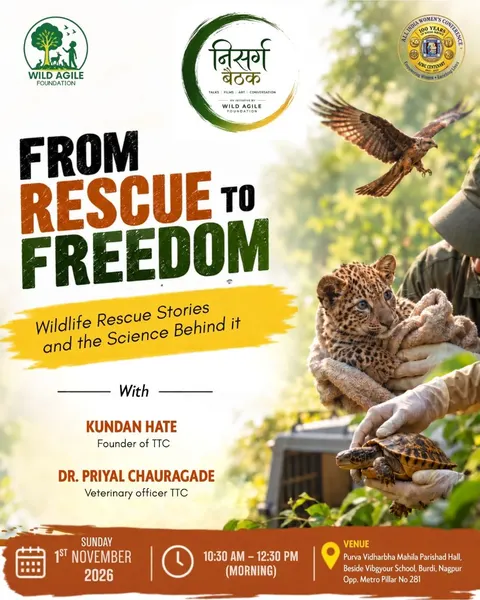
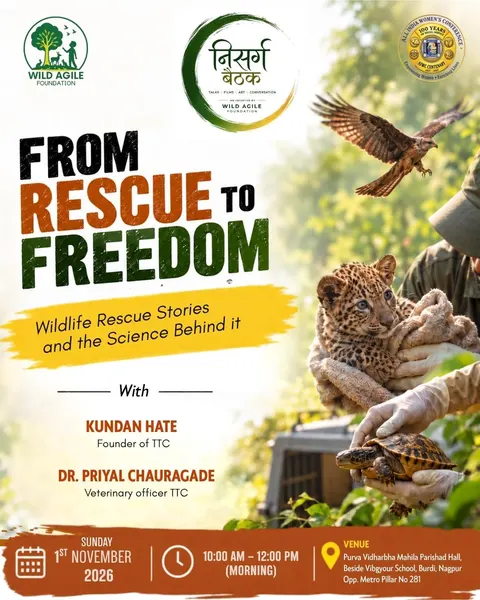
updated qr code and NB session 2 details

diff --git a/src/components/site/NisargBaithakFloatingPromo.tsx b/src/components/site/NisargBaithakFloatingPromo.tsx
@@ -1,50 +1,181 @@
-import { useMemo, useState } from "react";
-import { Minus } from "lucide-react";
+import { useEffect, useMemo, useState } from "react";
+import {
+  ArrowRight,
+  Calendar,
+  Clock,
+  ExternalLink,
+  MapPin,
+  Sparkles,
+  Ticket,
+} from "lucide-react";
+import {
+  Dialog,
+  DialogContent,
+  DialogDescription,
+  DialogTitle,
+} from "@/components/ui/dialog";
 import { NisargBaithakEventDialog } from "@/components/site/NisargBaithakEventDialog";
-import { NisargBaithakPosterTile } from "@/components/site/NisargBaithakPosterTile";
-import { isNisargBaithakCampaignActive, NISARG_BAITHAK_IMAGES } from "@/lib/nisarg-baithak";
+import {
+  isNisargBaithakCampaignActive,
+  NISARG_BAITHAK_BOOKING_URL,
+  NISARG_BAITHAK_EVENT,
+  NISARG_BAITHAK_IMAGES,
+} from "@/lib/nisarg-baithak";
+
+/** Remembers, for this browser tab, that the visitor already closed the big banner. */
+const BANNER_DISMISSED_KEY = "nisarg-baithak-banner-dismissed";
+const BANNER_DELAY_MS = 600;
+
+function readBannerDismissed() {
+  try {
+    return window.sessionStorage.getItem(BANNER_DISMISSED_KEY) === "1";
+  } catch {
+    return false;
+  }
+}
+
+function rememberBannerDismissed() {
+  try {
+    window.sessionStorage.setItem(BANNER_DISMISSED_KEY, "1");
+  } catch {
+    // Storage can be blocked (private mode); the banner just shows again next load.
+  }
+}
 
 export function NisargBaithakFloatingPromo() {
   const campaignActive = useMemo(() => isNisargBaithakCampaignActive(), []);
-  const [open, setOpen] = useState(false);
-  const [minimized, setMinimized] = useState(false);
-  const thumbnail = NISARG_BAITHAK_IMAGES[0];
+  const [mounted, setMounted] = useState(false);
+  const [bannerOpen, setBannerOpen] = useState(false);
+  const [detailsOpen, setDetailsOpen] = useState(false);
+  const event = NISARG_BAITHAK_EVENT;
+  const poster = NISARG_BAITHAK_IMAGES[0];
 
-  if (!campaignActive) return null;
+  // Decide on the client only, so the server render and hydration always agree.
+  useEffect(() => {
+    setMounted(true);
+    if (!campaignActive || readBannerDismissed()) return;
+    const id = window.setTimeout(() => setBannerOpen(true), BANNER_DELAY_MS);
+    return () => window.clearTimeout(id);
+  }, [campaignActive]);
+
+  if (!campaignActive || !mounted) return null;
+
+  const handleBannerChange = (open: boolean) => {
+    setBannerOpen(open);
+    if (!open) rememberBannerDismissed();
+  };
+
+  const openDetails = () => {
+    handleBannerChange(false);
+    setDetailsOpen(true);
+  };
 
   return (
     <>
-      {minimized ? (
+      <Dialog open={bannerOpen} onOpenChange={handleBannerChange}>
+        <DialogContent
+          onOpenAutoFocus={(e) => e.preventDefault()}
+          className="max-h-[92vh] max-w-[min(94vw,56rem)] gap-0 overflow-y-auto border-0 p-0 sm:rounded-3xl md:grid-cols-[minmax(0,1fr)_minmax(0,1fr)] md:overflow-hidden [&>button]:z-10 [&>button]:grid [&>button]:h-9 [&>button]:w-9 [&>button]:place-items-center [&>button]:rounded-full [&>button]:bg-background/90 [&>button]:opacity-100 [&>button]:shadow-md"
+        >
+          <div className="flex items-center justify-center bg-[var(--cream)]/60 p-4 sm:p-5 md:p-6">
+            <button
+              type="button"
+              onClick={openDetails}
+              aria-label="View Nisarg Baithak event details"
+              className="group block rounded-2xl focus:outline-none focus-visible:ring-4 focus-visible:ring-[var(--gold)]/50"
+            >
+              <img
+                src={poster.src}
+                alt={poster.alt}
+                className="mx-auto max-h-[46vh] w-auto rounded-2xl object-contain shadow-[0_16px_48px_-16px_rgba(46,94,78,0.45)] transition-transform duration-300 group-hover:scale-[1.01] md:max-h-[78vh]"
+              />
+            </button>
+          </div>
+
+          <div className="flex flex-col justify-center p-6 md:p-8">
+            <span className="inline-flex w-fit items-center gap-1.5 rounded-full bg-[var(--gold)] px-3 py-1 text-xs font-semibold text-foreground">
+              <Sparkles className="h-3.5 w-3.5" />
+              Nisarg Baithak · {event.sessionLabel}
+            </span>
+            <DialogTitle className="mt-4 font-serif text-3xl leading-tight text-primary md:text-4xl">
+              {event.topic}
+            </DialogTitle>
+            <DialogDescription className="mt-2 text-base text-foreground/85">
+              {event.subtitle}
+            </DialogDescription>
+            <p className="mt-2 text-sm italic text-muted-foreground">
+              {event.tagline}
+            </p>
+
+            <ul className="mt-6 space-y-2.5 text-sm text-foreground/90">
+              <li className="flex gap-3">
+                <Calendar
+                  className="mt-0.5 h-4 w-4 shrink-0 text-secondary"
+                  aria-hidden
+                />
+                {event.dateLabel}
+              </li>
+              <li className="flex gap-3">
+                <Clock
+                  className="mt-0.5 h-4 w-4 shrink-0 text-secondary"
+                  aria-hidden
+                />
+                {event.timeLabel}
+              </li>
+              <li className="flex gap-3">
+                <MapPin
+                  className="mt-0.5 h-4 w-4 shrink-0 text-secondary"
+                  aria-hidden
+                />
+                {event.venueShort}
+              </li>
+            </ul>
+
+            <div className="mt-7 flex flex-wrap gap-3">
+              <a
+                href={NISARG_BAITHAK_BOOKING_URL}
+                target="_blank"
+                rel="noopener noreferrer"
+                className="btn-primary inline-flex items-center gap-2 text-sm"
+              >
+                <Ticket className="h-4 w-4" />
+                Book your seat
+                <ExternalLink className="h-3.5 w-3.5 opacity-80" />
+              </a>
+              <button
+                type="button"
+                onClick={openDetails}
+                className="btn-gold inline-flex items-center gap-2 text-sm"
+              >
+                View event details <ArrowRight className="h-4 w-4" />
+              </button>
+            </div>
+            <p className="mt-3 text-xs text-muted-foreground">
+              {event.bookingNote}
+            </p>
+          </div>
+        </DialogContent>
+      </Dialog>
+
+      {!bannerOpen && (
         <button
           type="button"
-          onClick={() => setMinimized(false)}
+          onClick={() => setBannerOpen(true)}
           aria-label="Show Nisarg Baithak event"
           className="fixed bottom-6 right-6 z-40 flex h-14 w-14 items-center justify-center overflow-hidden rounded-full border-2 border-white bg-white shadow-[0_12px_32px_-8px_rgba(46,94,78,0.55)] ring-4 ring-background transition-transform hover:scale-105 focus:outline-none focus:ring-4 focus:ring-[var(--gold)]/40 sm:bottom-8 sm:right-8 sm:h-16 sm:w-16"
         >
           <img
-            src={thumbnail.src}
-            alt={thumbnail.alt}
+            src={poster.src}
+            alt={poster.alt}
             className="h-full w-full object-cover object-top"
           />
         </button>
-      ) : (
-        <div className="fixed bottom-6 right-6 z-40 sm:bottom-8 sm:right-8">
-          <button
-            type="button"
-            onClick={(event) => {
-              event.stopPropagation();
-              setMinimized(true);
-            }}
-            aria-label="Minimize Nisarg Baithak promo"
-            className="absolute -right-2 -top-2 z-50 grid h-8 w-8 place-items-center rounded-full border-2 border-white bg-primary text-primary-foreground shadow-md transition-colors hover:bg-primary/90 focus:outline-none focus:ring-2 focus:ring-[var(--gold)]/50 sm:h-9 sm:w-9"
-          >
-            <Minus className="h-4 w-4" strokeWidth={2.5} />
-          </button>
-          <NisargBaithakPosterTile variant="floating" onClick={() => setOpen(true)} />
-        </div>
       )}
 
-      <NisargBaithakEventDialog open={open} onOpenChange={setOpen} />
+      <NisargBaithakEventDialog
+        open={detailsOpen}
+        onOpenChange={setDetailsOpen}
+      />
     </>
   );
 }

diff --git a/src/routes/join.tsx b/src/routes/join.tsx
@@ -2,6 +2,7 @@ import { createFileRoute } from "@tanstack/react-router";
 import { Landmark } from "lucide-react";
 import { Reveal } from "@/components/site/Reveal";
 import { SectionTitle } from "@/components/site/SectionTitle";
+import bankQR from "@/assets/wildAgileBankQR.jpg";
 import whatsappQR from "@/assets/whatsappQR.jpeg";
 
 export const Route = createFileRoute("/join")({
@@ -15,6 +16,8 @@ export const Route = createFileRoute("/join")({
   }),
   component: JoinPage,
 });
+
+const WHATSAPP_URL = "https://wa.me/919970175544";
 
 const BANK_DETAILS = [
   { label: "Account Name", value: "Wild Agile Foundation" },
@@ -73,23 +76,39 @@ function JoinPage() {
                     </dl>
                     <figure className="shrink-0 self-center sm:self-start">
                       <img
-                        src={whatsappQR}
-                        alt="Scan to pay via UPI / WhatsApp"
-                        className="h-40 w-40 rounded-2xl border border-white/15 bg-white object-contain p-2"
+                        src={bankQR}
+                        alt="IndusInd Bank UPI QR code for Wild Agile Foundation"
+                        className="h-auto w-48 rounded-2xl sm:w-52 border border-white/15 bg-white object-contain p-1.5"
                       />
                       <figcaption className="mt-2 text-center text-xs font-medium text-primary-foreground/70">
                         Scan to pay
+                        <span className="mt-0.5 block select-all font-semibold">UPI ID: pos.5385721@indus</span>
                       </figcaption>
                     </figure>
                   </div>
                 </div>
 
-                <div className="mt-6 text-sm leading-relaxed text-primary-foreground/75">
-                  After contributing, please email your transaction details to{" "}
-                  <a href="mailto:hello@wildagilefoundation.org" className="font-medium text-white hover:underline">
-                    hello@wildagilefoundation.org
-                  </a>{" "}
-                  for acknowledgment.
+
+                <div className="mt-6 flex flex-col items-center gap-4 rounded-2xl border border-white/15 bg-white/5 p-5 sm:flex-row sm:items-center">
+                  <a href={WHATSAPP_URL} target="_blank" rel="noopener noreferrer" className="shrink-0">
+                    <img
+                      src={whatsappQR}
+                      alt="WhatsApp QR code to share your payment screenshot"
+                      className="h-28 w-28 rounded-xl bg-white object-contain p-1.5"
+                    />
+                  </a>
+                  <p className="text-center text-sm leading-relaxed text-primary-foreground/85 sm:text-left">
+                    <span className="block font-semibold text-white">Share your transaction details on WhatsApp</span>
+                    Scan this QR code, or{" "}
+                    <a href={WHATSAPP_URL} target="_blank" rel="noopener noreferrer" className="font-medium text-white underline-offset-4 hover:underline">
+                      tap here to open WhatsApp
+                    </a>
+                    , and send us a screenshot after you pay. You can also email your transaction details to{" "}
+                    <a href="mailto:hello@wildagilefoundation.org" className="font-medium text-white underline-offset-4 hover:underline">
+                      hello@wildagilefoundation.org
+                    </a>{" "}
+                    for acknowledgment.
+                  </p>
                 </div>
 
                 <div className="mt-8 border-t border-white/10 pt-6 text-sm text-primary-foreground/75">

diff --git a/src/routes/programs.$slug.tsx b/src/routes/programs.$slug.tsx
@@ -8,7 +8,10 @@ import { Reveal } from "@/components/site/Reveal";
 import { SectionTitle } from "@/components/site/SectionTitle";
 import { LeafDivider } from "@/components/site/LeafDivider";
 import { NisargBaithakSessions } from "@/components/site/NisargBaithakSessions";
+import bankQR from "@/assets/wildAgileBankQR.jpg";
 import whatsappQR from "@/assets/whatsappQR.jpeg";
+
+const WHATSAPP_URL = "https://wa.me/919970175544";
 
 function HeroDescription({
   description,
@@ -836,22 +839,37 @@ function FundraisingSupport({ fundraising }: { fundraising: NonNullable<ReturnTy
             </dl>
             <figure className="shrink-0 self-center sm:self-start">
               <img
-                src={whatsappQR}
-                alt="Scan to pay via UPI / WhatsApp"
-                className="h-40 w-40 rounded-2xl border border-border bg-white object-contain p-2 shadow-[var(--shadow-soft)]"
+                src={bankQR}
+                alt="IndusInd Bank UPI QR code for Wild Agile Foundation"
+                className="h-auto w-48 rounded-2xl sm:w-52 border border-border bg-white object-contain p-1.5 shadow-[var(--shadow-soft)]"
               />
               <figcaption className="mt-2 text-center text-xs font-medium text-muted-foreground">
                 Scan to pay
+                <span className="mt-0.5 block select-all font-semibold">UPI ID: pos.5385721@indus</span>
               </figcaption>
             </figure>
           </div>
-          <p className="mt-6 text-base leading-relaxed text-muted-foreground md:text-lg">
-            After contributing, please email your transaction details to{" "}
-            <a href="mailto:hello@wildagilefoundation.org" className="font-medium text-primary hover:underline">
-              hello@wildagilefoundation.org
-            </a>{" "}
-            for acknowledgment.
-          </p>
+          <div className="mt-6 flex flex-col items-center gap-4 rounded-2xl border border-border bg-background/60 p-5 sm:flex-row sm:items-center">
+            <a href={WHATSAPP_URL} target="_blank" rel="noopener noreferrer" className="shrink-0">
+              <img
+                src={whatsappQR}
+                alt="WhatsApp QR code to share your payment screenshot"
+                className="h-28 w-28 rounded-xl border border-border bg-white object-contain p-1.5"
+              />
+            </a>
+            <p className="text-center text-sm leading-relaxed text-muted-foreground sm:text-left md:text-base">
+              <span className="block font-semibold text-primary">Share your transaction details on WhatsApp</span>
+              Scan this QR code, or{" "}
+              <a href={WHATSAPP_URL} target="_blank" rel="noopener noreferrer" className="font-medium text-primary underline-offset-4 hover:underline">
+                tap here to open WhatsApp
+              </a>
+              , and send us a screenshot after you pay. You can also email your transaction details to{" "}
+              <a href="mailto:hello@wildagilefoundation.org" className="font-medium text-primary underline-offset-4 hover:underline">
+                hello@wildagilefoundation.org
+              </a>{" "}
+              for acknowledgment.
+            </p>
+          </div>
           <p className="mt-4 text-base leading-relaxed text-foreground/85 md:text-lg">
             All donations are eligible for tax benefits under Section 80G of the Income Tax Act. A donation receipt will be issued for every contribution.
           </p>

diff --git a/src/lib/nisarg-baithak.ts b/src/lib/nisarg-baithak.ts
@@ -1,4 +1,4 @@
-import nisargBaithakSession2 from "@/assets/landingPage/NisargBaithakSession2.png";
+import nisargBaithakSession2 from "@/assets/landingPage/NisargBaithakSession2.jpg";
 import nisargBaithakSession1Thumb from "@/assets/landingPage/NisargBaithak.thumb.webp";
 import nisargBaithakSession2Thumb from "@/assets/landingPage/NisargBaithakSession2.thumb.webp";
 
@@ -18,7 +18,7 @@ export const NISARG_BAITHAK_EVENT = {
   subtitle: "Wildlife Rescue Stories and the Science Behind It",
   tagline: "Because every wildlife rescue deserves a wild ending!",
   dateLabel: "Sunday, 1 November 2026",
-  timeLabel: "10:30 AM – 12:30 PM (Morning)",
+  timeLabel: "10:00 AM – 12:00 PM (Morning)",
   venueLine:
     "Purva Vidharbha Mahila Parishad Hall, beside Vibgyour School, Burdi, Nagpur, opposite Metro Pillar No. 281",
   venueShort: "Purva Vidharbha Mahila Parishad Hall, Burdi, Nagpur",
@@ -74,6 +74,10 @@ export const NISARG_BAITHAK_EVENT = {
   closing:
     "Join us at the second Nisarg Baithak to discover the stories, science, and human commitment behind every journey back to the wild.",
   included: ["Lecture", "Take Away Gift"],
+  communityNote: [
+    "Nisarg Baithak is a community initiative, and your contribution helps make it happen! PVMP has generously provided the venue, and your nominal contribution helps us cover event arrangements which includes a thoughtful take-home gift. It also helps us to anticipate the attending participants better and plan accordingly.",
+    "Organised by Wild Agile Foundation in collaboration with PVMP and Green Nagpur. Nisarg Baithak is a platform for meaningful conversations on nature, wildlife, and the environment.",
+  ],
 } as const;
 
 export const NISARG_BAITHAK_IMAGES = [

diff --git a/src/components/site/NisargBaithakEventDialog.tsx b/src/components/site/NisargBaithakEventDialog.tsx
@@ -169,6 +169,12 @@ export function NisargBaithakEventDialog({ open, onOpenChange }: NisargBaithakEv
               </ul>
             </section>
 
+            <section className="space-y-3 rounded-xl border border-[color-mix(in_oklab,var(--gold)_45%,transparent)] bg-[color-mix(in_oklab,var(--gold)_10%,var(--background))] p-4 text-sm leading-relaxed text-foreground/90 sm:p-5 sm:text-[0.9375rem]">
+              {event.communityNote.map((paragraph) => (
+                <p key={paragraph.slice(0, 48)}>{paragraph}</p>
+              ))}
+            </section>
+
             <section className="space-y-2 border-t border-border/60 pb-2 pt-2">
               <SectionHeading>Where it is</SectionHeading>
               <p className="text-sm leading-relaxed text-muted-foreground">{event.fullAddress}</p>
